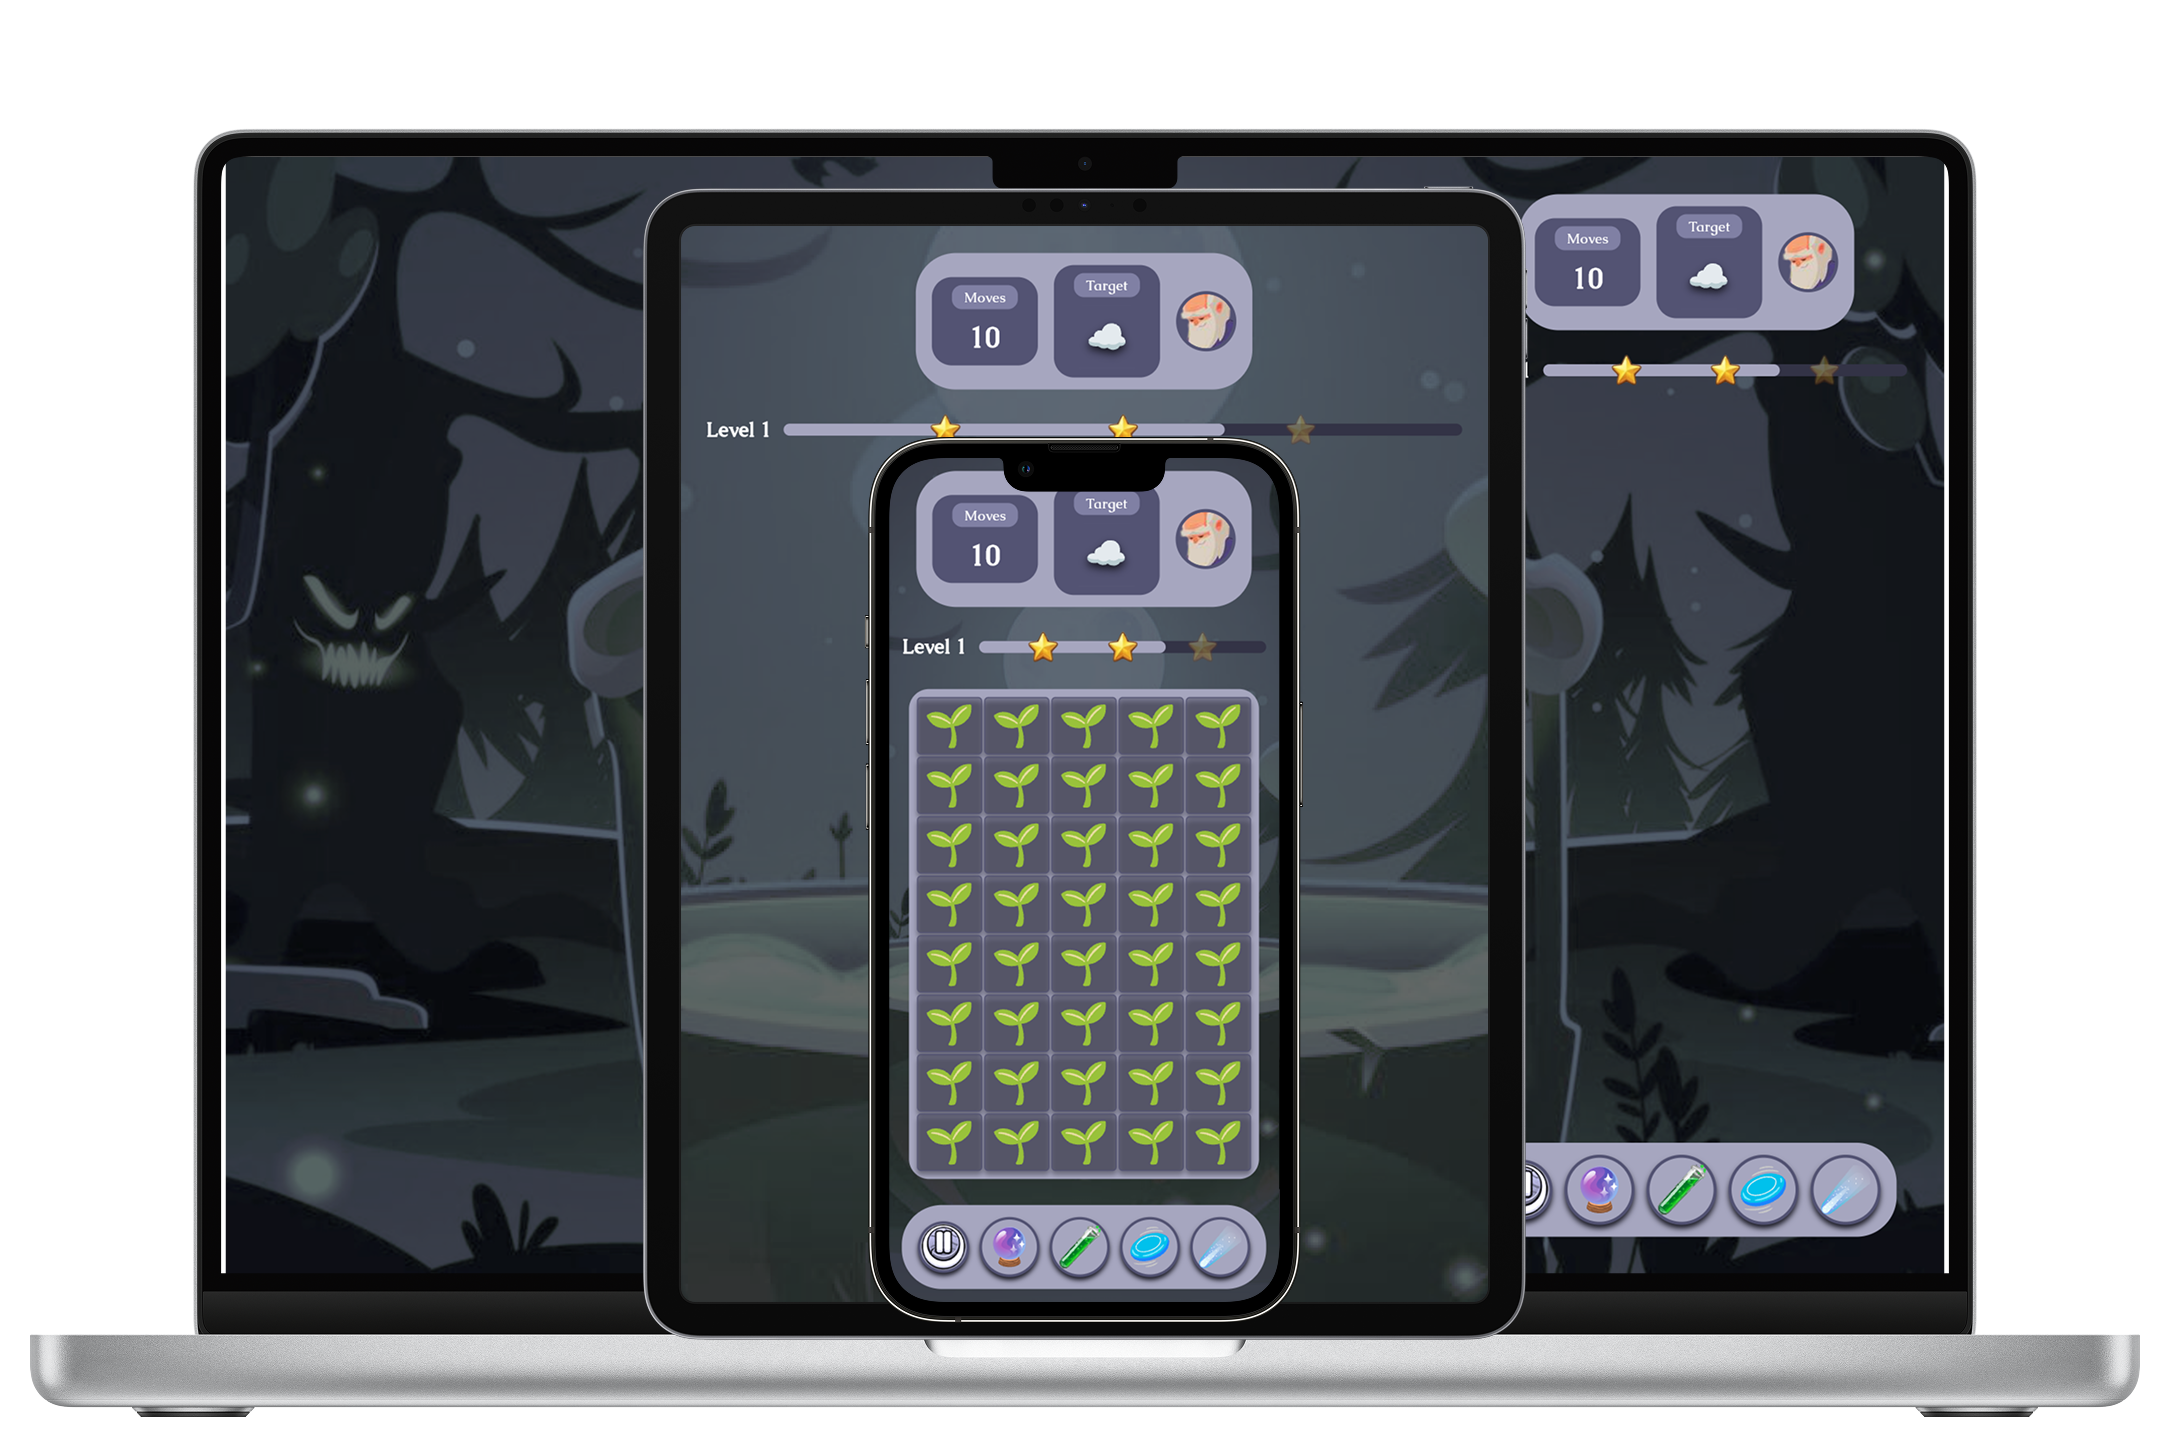
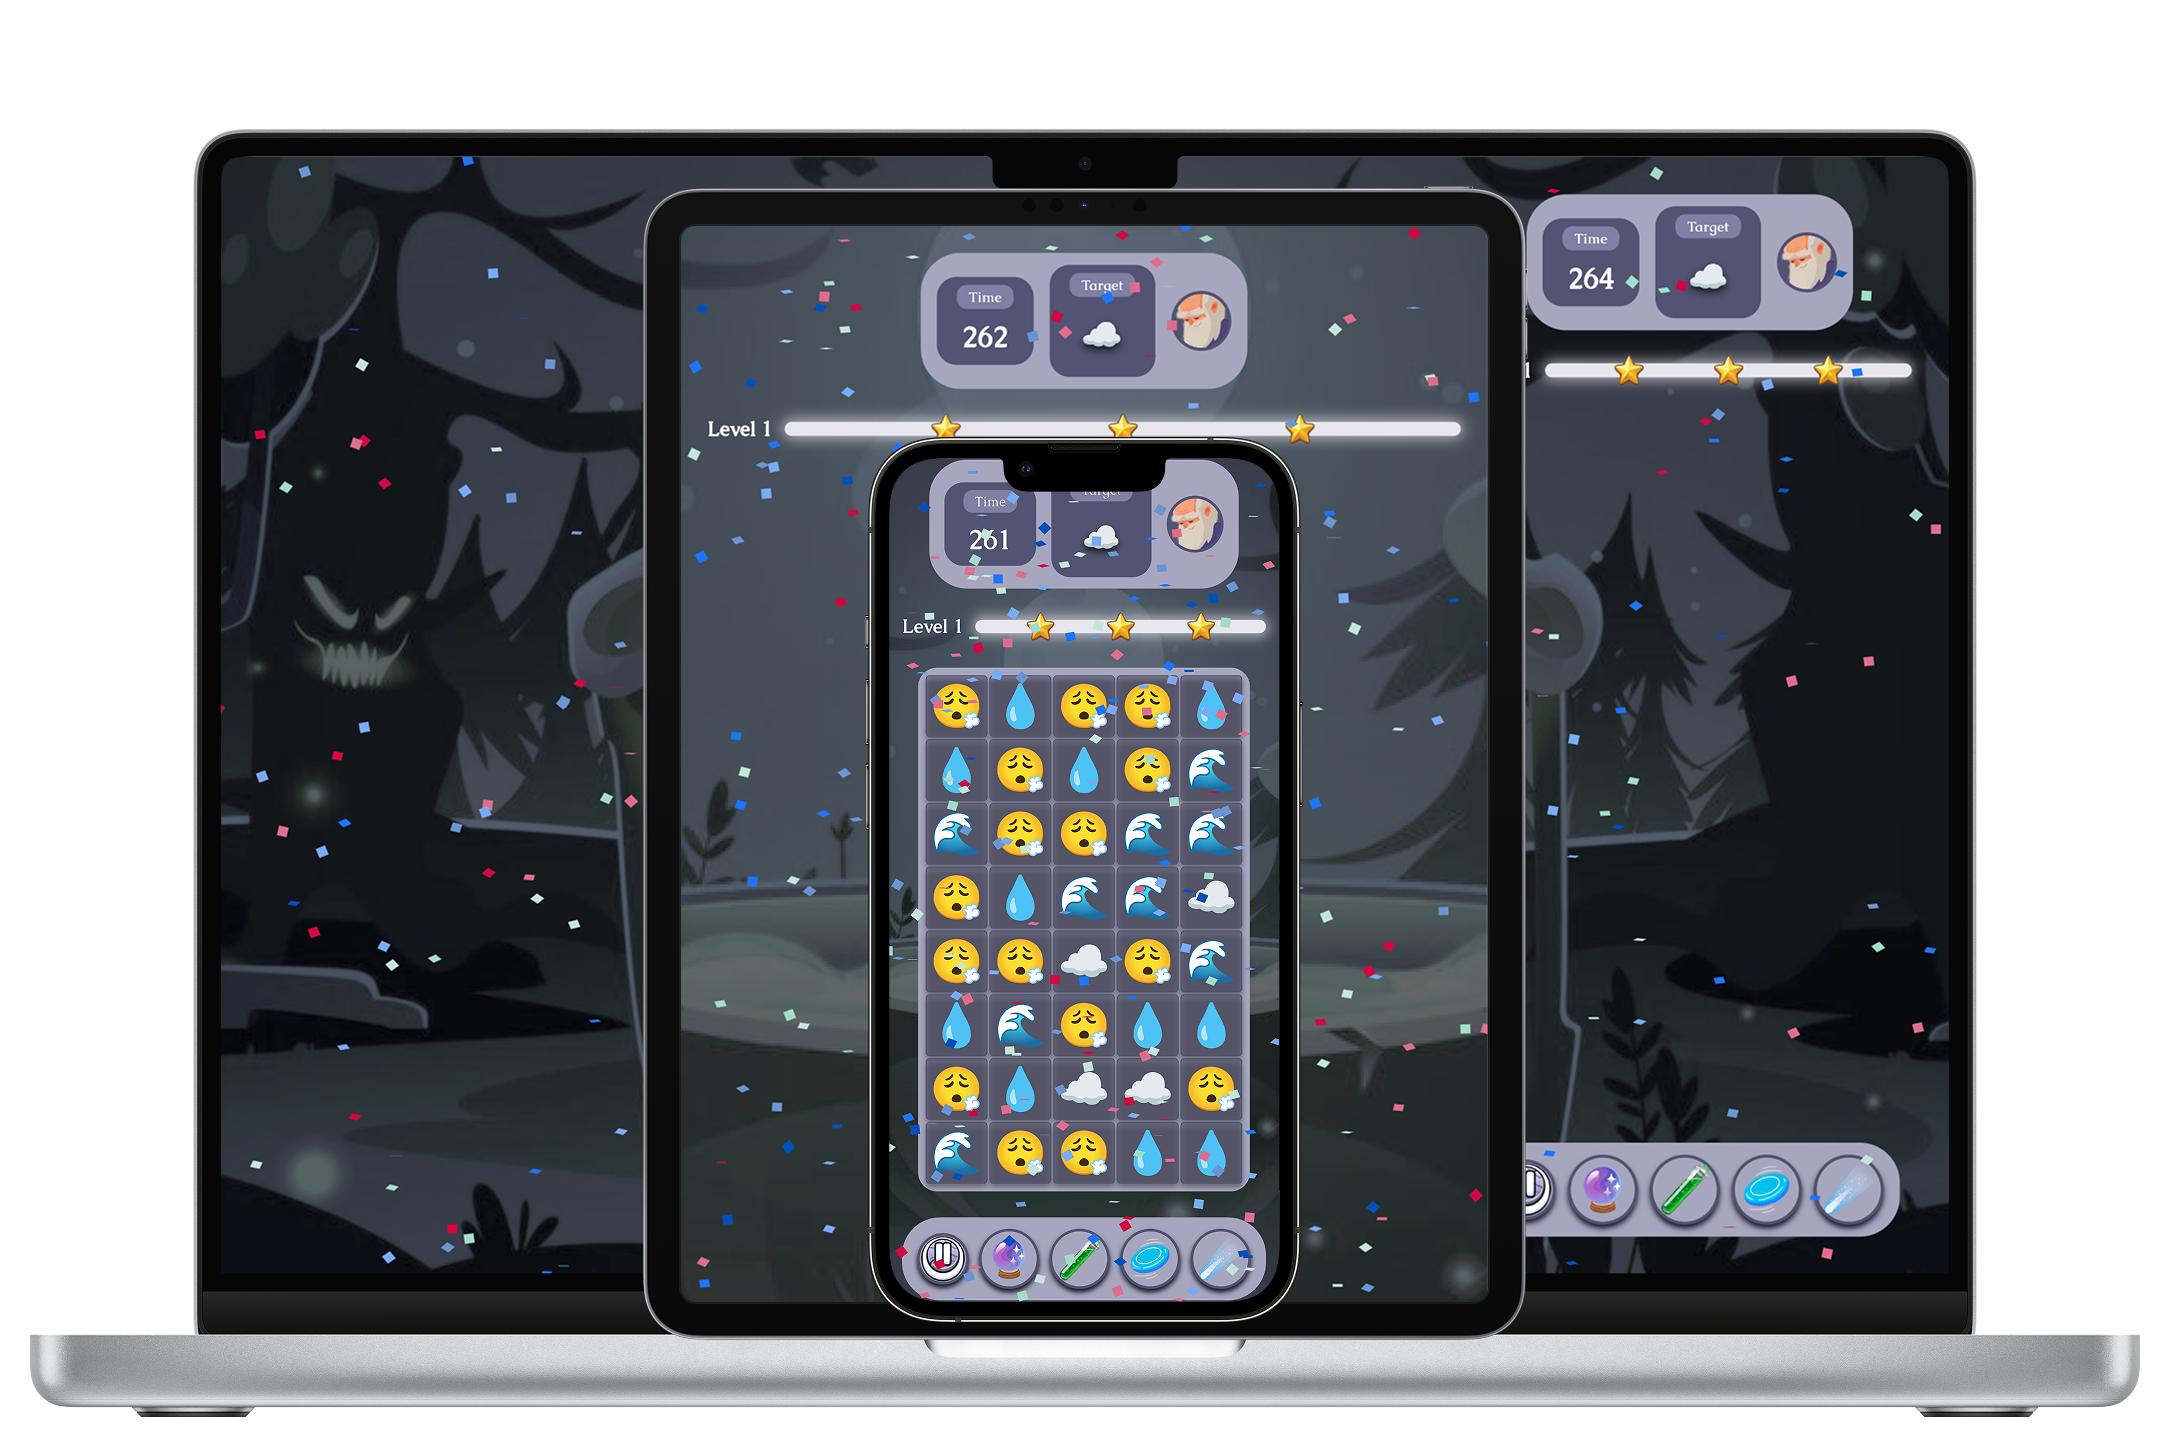
removed buggy emoji n update readme screenshot
tagged first release

diff --git a/lib/features/level/game/model/alchemy/book.dart b/lib/features/level/game/model/alchemy/book.dart
@@ -44,12 +44,12 @@ class RecipeBook {
       type: RecipeType.merge,
     ),
 
-    Recipe(
-      ingredient: Emojis.fire,
-      requiredAmount: 3,
-      yields: null,
-      type: RecipeType.volatile,
-    ),
+    // Recipe(
+    //   ingredient: Emojis.fire,
+    //   requiredAmount: 3,
+    //   yields: null,
+    //   type: RecipeType.volatile,
+    // ),
     Recipe(
       ingredient: Emojis.fire,
       requiredAmount: 4,